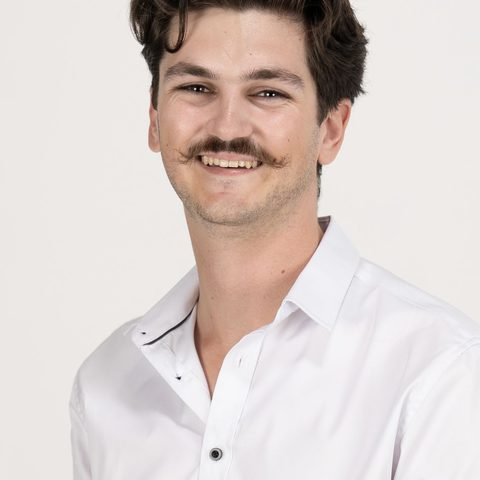
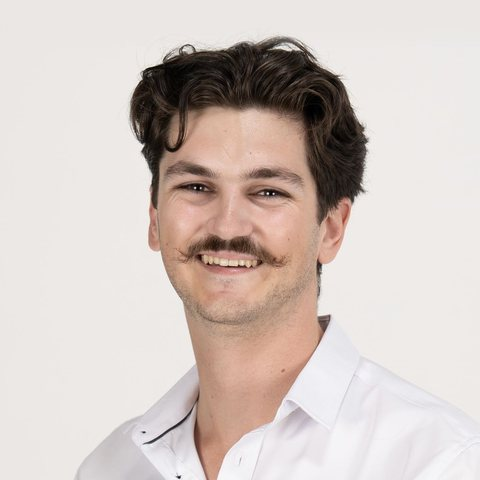
About board: reframe the headshot, show years on hover
- Re-crop the portrait with headroom (padded to match the photo's own
  background) so the circle no longer cuts off the top of the head
- Hover or tap the photo to reveal years in industry, as on the earlier
  design, instead of a lone stat at the bottom of the board
- Centre the About text vertically on desktop boards

Claude-Session: https://claude.ai/code/session_01K2aE8KrbTYbabVrSRFcfhy

diff --git a/site.css b/site.css
@@ -264,16 +264,30 @@ p { margin: 0; }
 /* About */
 .about-head { display: flex; align-items: center; justify-content: space-between; gap: 1em; }
 .about-photo {
-    width: 4.6em; height: 4.6em; border-radius: 50%; object-fit: cover; flex: none;
+    position: relative; margin: 0; flex: none;
+    width: 4.6em; height: 4.6em; border-radius: 50%; overflow: hidden;
     box-shadow: 0 0 0 0.22em #fff, 0 0 0 0.3em var(--yellow);
+    cursor: default; outline: none;
 }
-.landscape .card-about .card-in { padding-right: 34%; }
+.about-photo img { width: 100%; height: 100%; object-fit: cover; }
+/* Hover (or tap) the photo to see years in industry, as on the earlier design. */
+.about-years {
+    position: absolute; inset: 0;
+    display: grid; place-content: center; text-align: center;
+    background: rgba(29, 29, 31, 0.72); color: #fff;
+    opacity: 0; transition: opacity .3s ease;
+}
+.about-photo:hover .about-years, .about-photo:focus .about-years, .about-photo:focus-visible .about-years { opacity: 1; }
+.about-photo:focus-visible { box-shadow: 0 0 0 0.22em #fff, 0 0 0 0.3em var(--yellow), 0 0 0 0.5em rgba(243, 181, 11, 0.35); }
+.about-years b { font-size: 1.35em; font-weight: 800; letter-spacing: -0.04em; line-height: 1; }
+.about-years span { font-size: 0.42em; font-weight: 600; letter-spacing: 0.02em; margin-top: 0.3em; }
+.landscape .card-about .card-in { padding-right: 34%; justify-content: center; }
 .landscape .card-about .about-photo {
     position: absolute; right: 6%; top: 50%;
-    width: 24%; height: auto; aspect-ratio: 1; transform: translateY(-58%);
+    width: 24%; height: auto; aspect-ratio: 1; transform: translateY(-50%);
 }
-.landscape .card-about .card-in > .stats { position: absolute; left: 6%; right: 6%; bottom: 5%; }
-.landscape .card-about .chips { margin-bottom: 7.5em; }
+.landscape .card-about .about-years b { font-size: 3.4em; }
+.landscape .card-about .about-years span { font-size: 0.95em; margin-top: 0.4em; }
 
 /* Experience */
 .roles { display: grid; gap: 1.1em; }

diff --git a/index.html b/index.html
@@ -66,7 +66,10 @@
                             <p class="eyebrow">01 — About</p>
                             <div class="about-head">
                                 <h2>Hi, I’m Aidan.</h2>
-                                <img class="about-photo" src="images/thumbs/headshot.jpg" alt="Portrait of Aidan Korpar" width="240" height="240" decoding="async">
+                                <figure class="about-photo" tabindex="0">
+                                    <img src="images/thumbs/headshot.jpg" alt="Portrait of Aidan Korpar" width="480" height="480" decoding="async">
+                                    <figcaption class="about-years"><b data-years>4+</b><span>years in industry</span></figcaption>
+                                </figure>
                             </div>
                             <p class="lede">I’m a control systems and automation engineer with a Bachelor’s in Mechatronic Engineering.</p>
                             <p>I program PLCs, integrate industrial robots, design in CAD and commission automated lines. I’ve also spent years leading teams, from Army Cadets to a 600-member engineering society.</p>
@@ -75,9 +78,6 @@
                                 <li>Industrial robotics</li>
                                 <li>Team leadership</li>
                             </ul>
-                            <dl class="stats stats-1">
-                                <div><dt data-years>4</dt><dd>Years in industry</dd></div>
-                            </dl>
                         </div>
                     </article>
 
